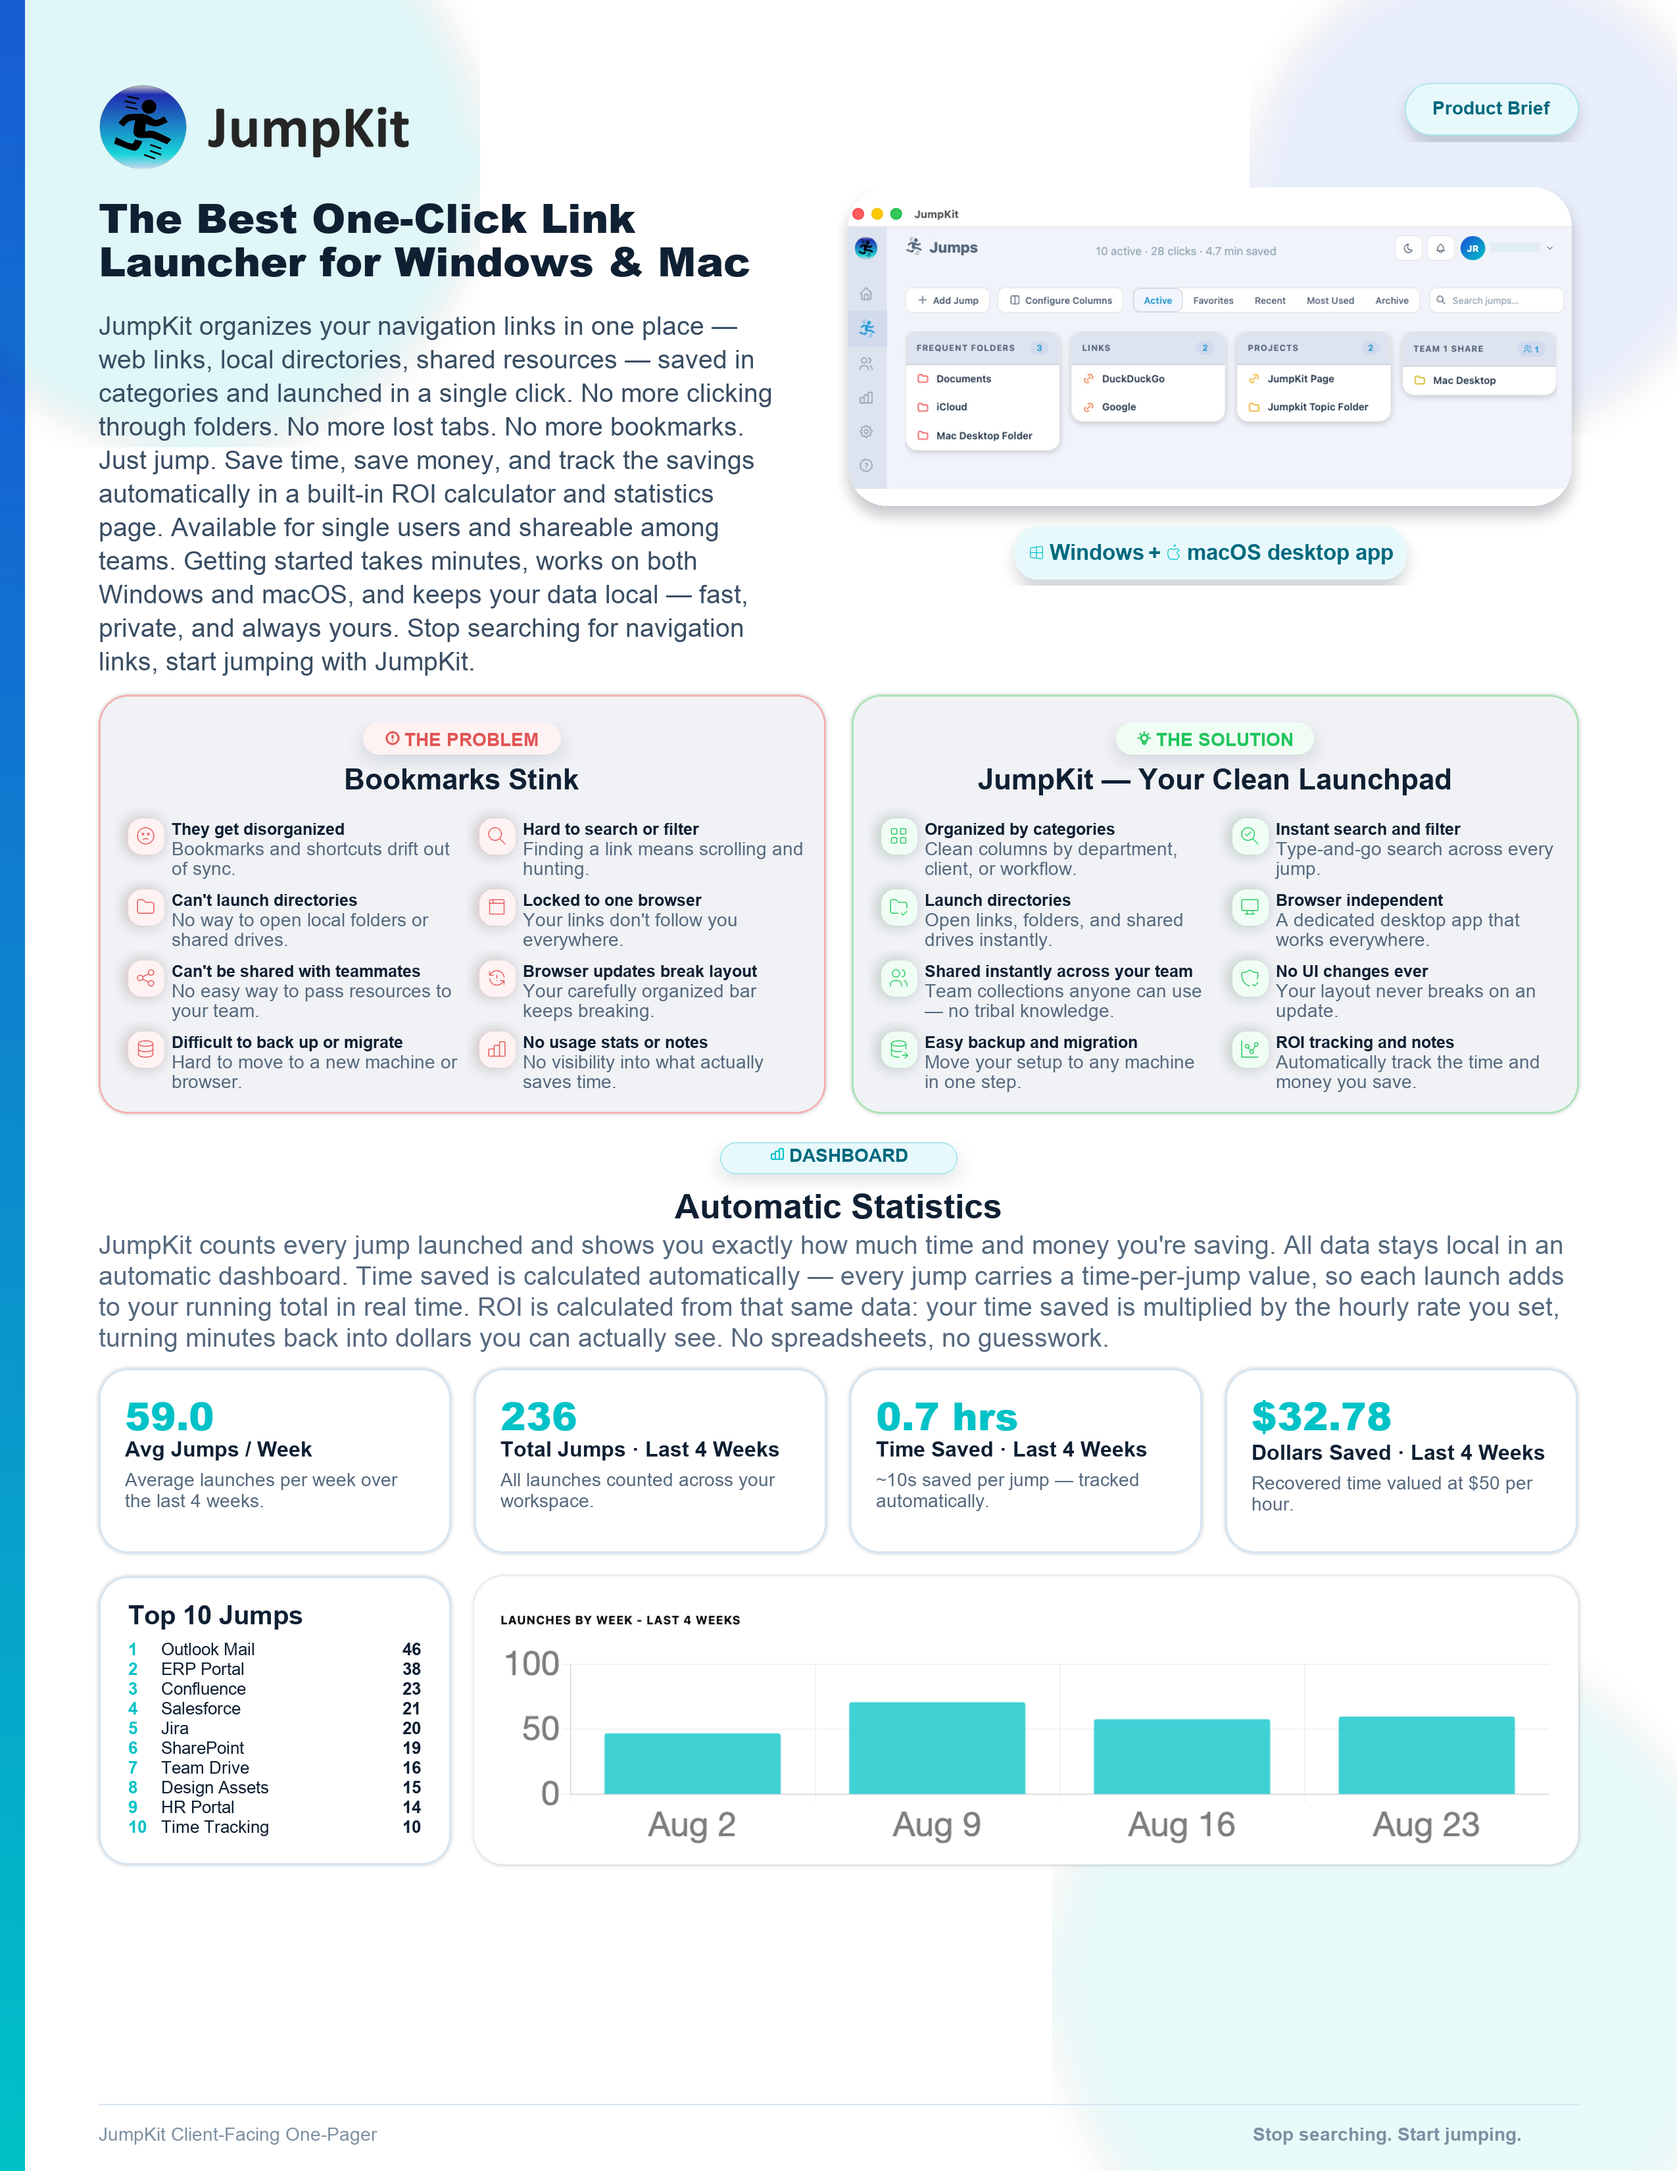
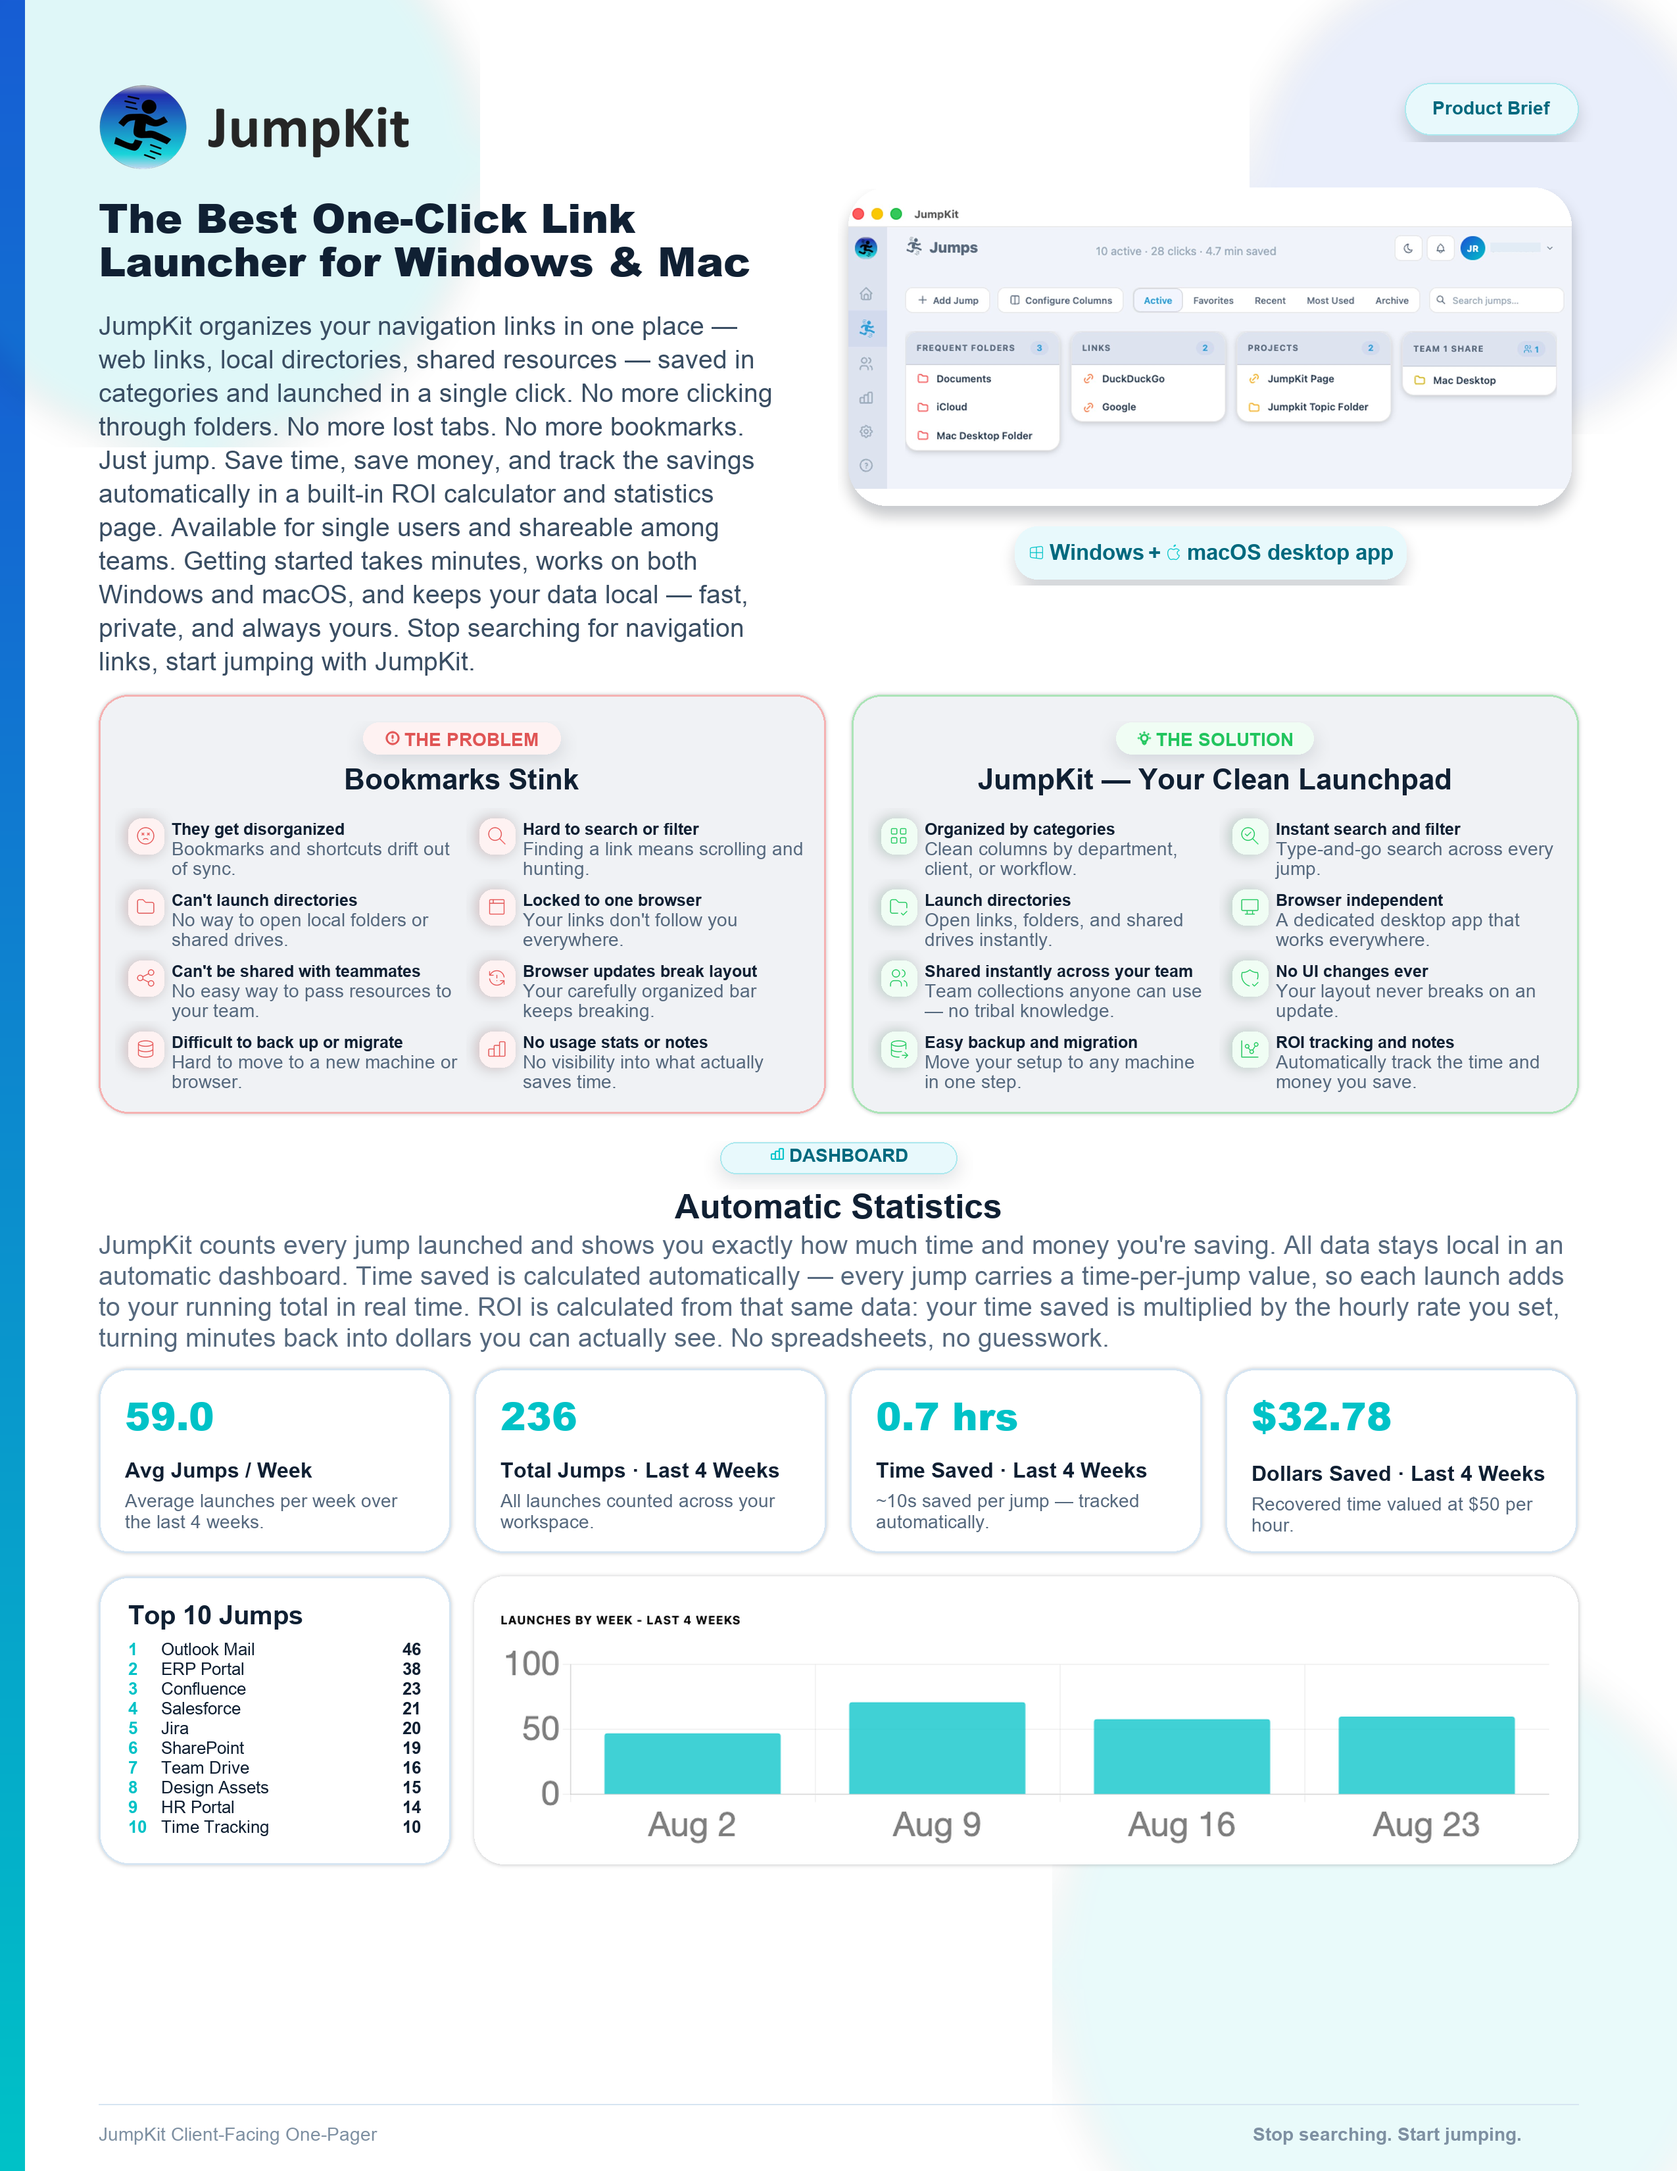
one-pager: 32px more bottom margin below teal stat values (16→48px total)

diff --git a/Commercial/Affiliates/make_client_one_pager_pdf.py b/Commercial/Affiliates/make_client_one_pager_pdf.py
@@ -439,7 +439,7 @@ def _stat_card(page, d2, box, icon, big, big_color, label, sub):
     # big number (tile icon removed per Jeff; teal value per Jeff)
     d2.text((x1+40, y1+30), big, font=font(58, black=True), fill=big_color)
     big_bottom = d2.textbbox((0,0), big, font=font(58, black=True))[3]
-    label_y = y1 + 30 + big_bottom + 10   # 16px visual margin below the teal stat text (label glyphs start 6px below origin)
+    label_y = y1 + 30 + big_bottom + 42   # 48px visual margin below the teal stat text (16 + 32 added; label glyphs start 6px below origin)
     draw_wrapped(d2, label, (x1+40, label_y), font(32, True), INK, (x2-x1)-80, line_gap=4)
     draw_wrapped(d2, sub, (x1+40, label_y+48), F['tiny'], MUTED, (x2-x1)-80, line_gap=4)
 
